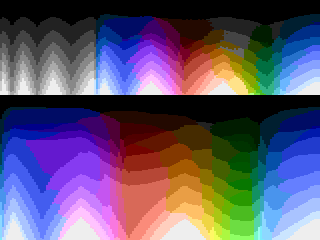
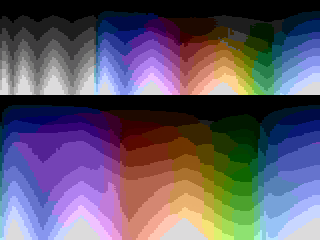
update to wiki and changelog

diff --git a/src/app/config.cpp b/src/app/config.cpp
@@ -231,7 +231,7 @@ parser.addOption("predistance", {}, "yuv|euclid|ciede|cie94|oklab|rasta", "rasta
 		if (!p2.empty()) palette_file = p2;
 	}
 
-string dst_name = parser.getValue("distance","yuv");
+string dst_name = parser.getValue("distance","rasta");
 if (dst_name=="euclid")
 	dstf=E_DISTANCE_EUCLID;
 else if (dst_name=="ciede" || dst_name=="ciede2000")

diff --git a/ChangeLog.md b/ChangeLog.md
@@ -1,7 +1,7 @@
 ChangeLog
 =========
 
-RastaConverterBeta19      2025-10-?? [AI RELEASE]
+RastaConverterBeta19      2025-10-20 [AI RELEASE]
 * Added extra color distance functions: oklab, cie94 and rasta (boosts chroma for dark grey colors to prevent too gray destination picture)
 * "rasta" color distance is now default for both /predistance and /distance - should bring better conversion results with default parameters
 * Running GUI conversion is getting a taskbar icon equal to converted image (a gimmick for more parallel conversions).
